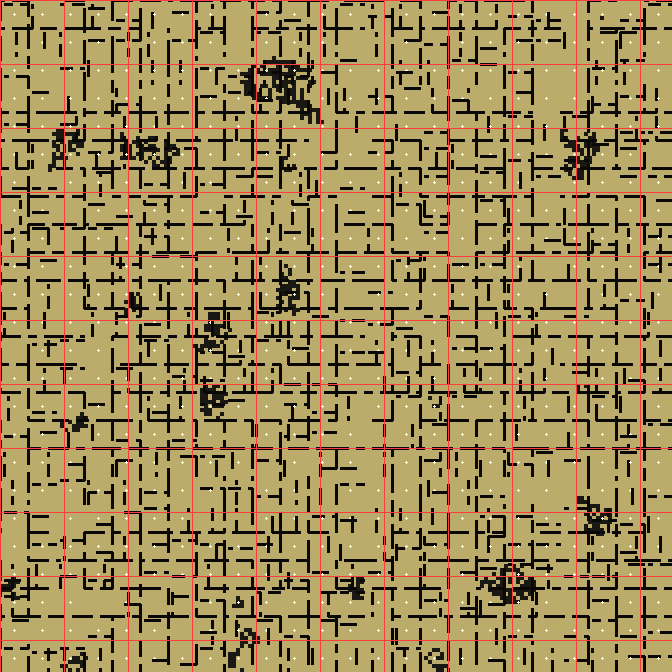
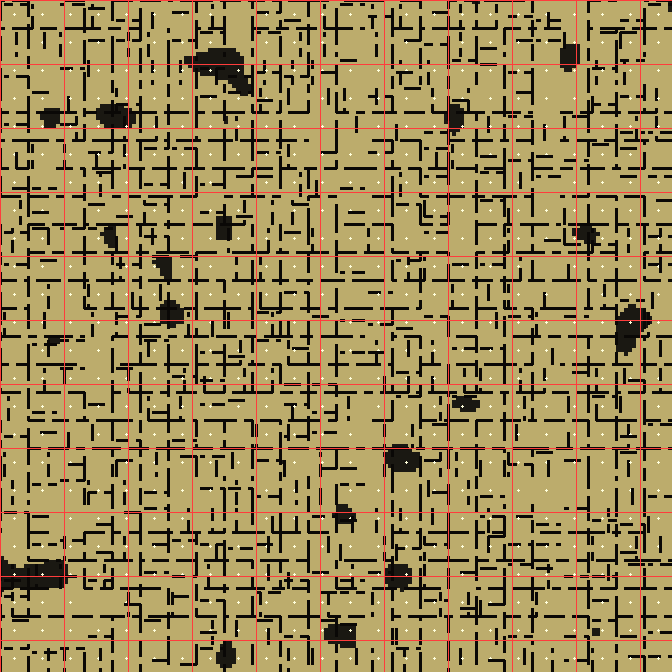
look: make the pits compact round blobs
Three octaves plus a random thinning produced one-cell slivers, which read as
tears in the carpet rather than pits. Two octaves give 2-3% coverage in pits a
few metres across, which is what the flat level wanted.

diff --git a/core/src/main/java/com/backrooms/gdx/world/WorldGen.java b/core/src/main/java/com/backrooms/gdx/world/WorldGen.java
@@ -60,17 +60,12 @@ public final class WorldGen {
     }
 
     /**
-     * True where the floor drops away into a pit. The blobs come from the same low frequency noise
-     * the level always used, but now they are only ever holes: everything else stays on one level.
+     * True where the floor drops away into a pit. Two octaves only, so the blobs come out compact
+     * and round instead of as one-cell slivers: about 3% of the floor, in pits a few metres across.
+     * Everything outside them is on the same level.
      */
     public boolean isHole(int cellX, int cellZ) {
-        float pit = Hash.fbm3(seed ^ 0x2545f491,
-                cellX * 0.055f + 11f, cellZ * 0.055f - 7f);
-        if (pit <= 0.46f) {
-            return false;
-        }
-        // Thin the blobs out so a hole is a landmark instead of a minefield: about 3% of cells.
-        return (Hash.hash2(seed ^ 0x6ac690c5, cellX, cellZ) & 255) < 150;
+        return Hash.fbm2(seed ^ 0x2545f491, cellX * 0.07f + 11f, cellZ * 0.07f - 7f) > 0.57f;
     }
 
     // ---------------------------------------------------------------------------------------------

diff --git a/tools/map_preview.py b/tools/map_preview.py
@@ -81,11 +81,8 @@ class Gen:
         self.seed = seed
 
     def is_hole(self, i, j):
-        pit = fbm3(self.seed ^ 0x2545F491, i * 0.055 + 11, j * 0.055 - 7)
-        if pit <= 0.46:
-            return False
-        # Thin the blobs out so a hole is a landmark instead of a minefield: about 3% of cells.
-        return (hash2(self.seed ^ 0x6AC690C5, i, j) & 255) < 150
+        """Compact round pits: two octaves only, about 3% of the floor."""
+        return fbm2(self.seed ^ 0x2545F491, i * 0.07 + 11, j * 0.07 - 7) > 0.57
 
     def floor_y(self, i, j):
         return -HOLE_DEPTH if self.is_hole(i, j) else 0.0
